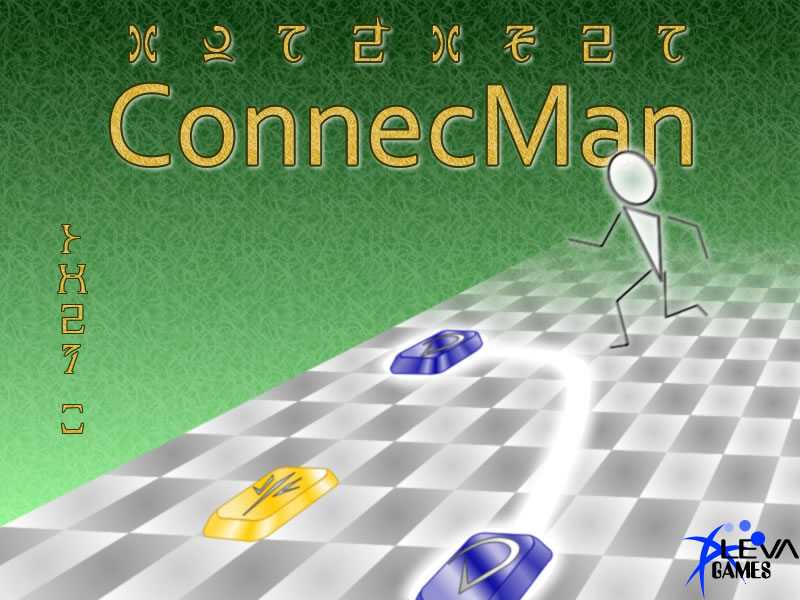
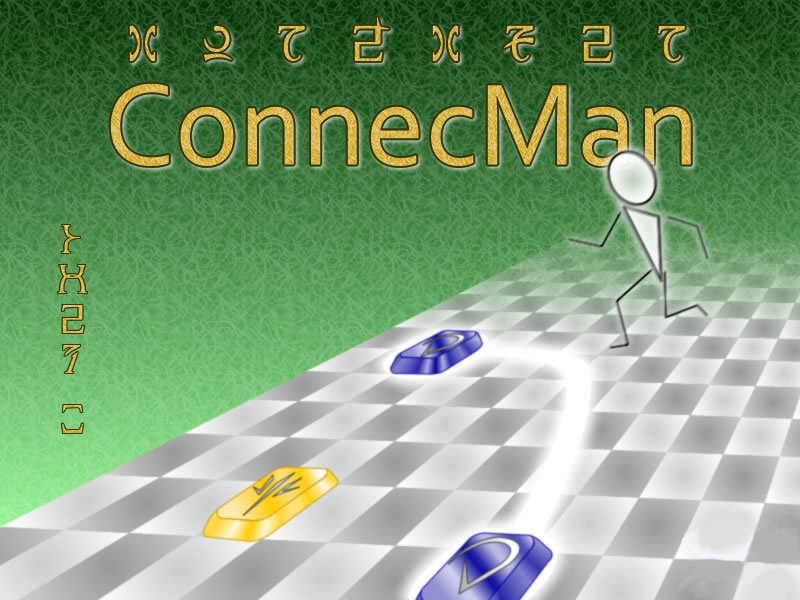
Package for v1.1.1.

Changed region(s): [[0.8438, 0.87, 1.0, 0.99]]

diff --git a/menu.rb b/menu.rb
@@ -202,6 +202,8 @@ class Menu < Controller
     else
       @controls[@state].each(&:draw) if @state != :main
     end
+    
+    ConnecMan.text_helper.write_line('v1.1.1', 790, 570, :right)
 
     super
   end
